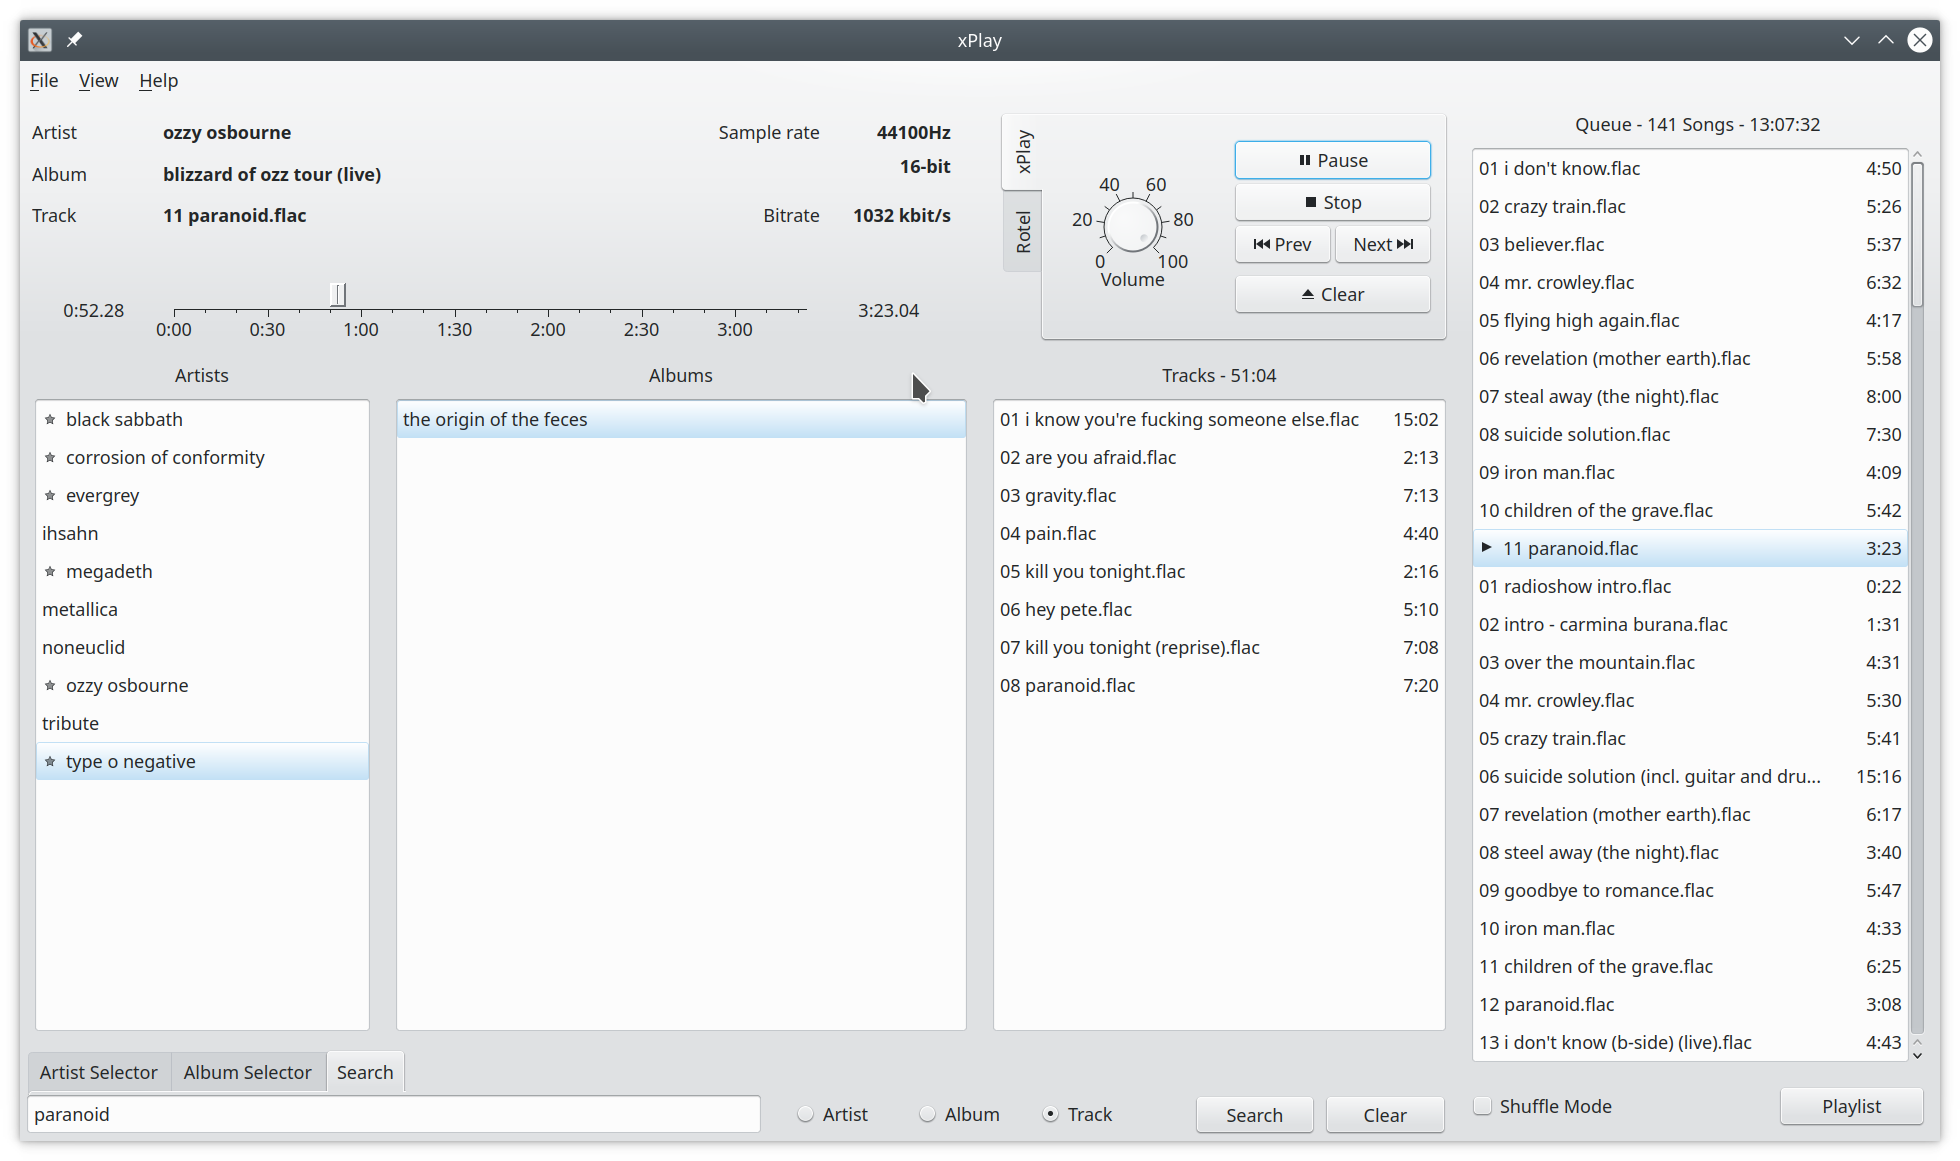
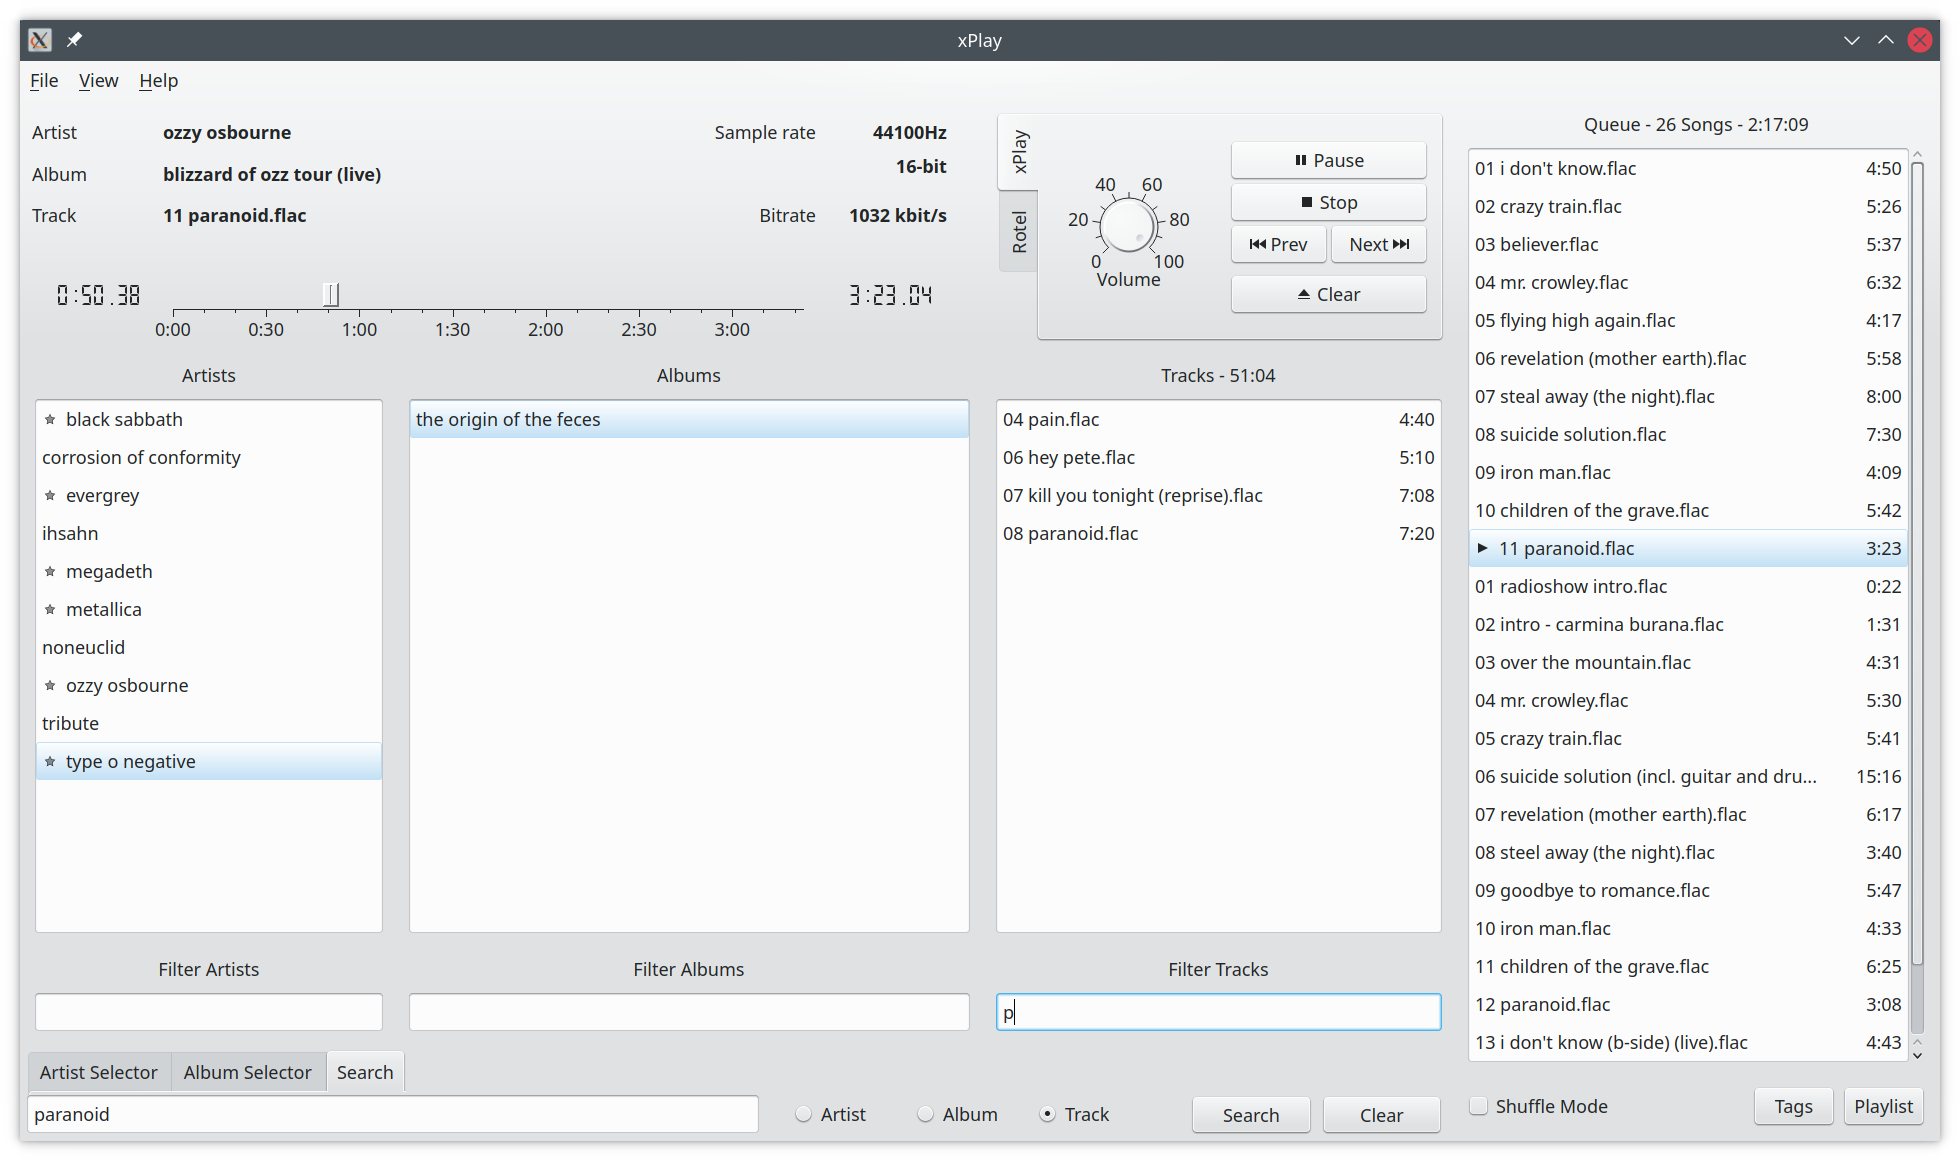
Update CHANGELOG.md and README.md. Update screenshots and version number.

diff --git a/xPlay.cpp b/xPlay.cpp
@@ -155,7 +155,7 @@ int main(int argc, char* argv[])
 {
     QApplication playApp(argc, argv);
     QApplication::setApplicationName("xPlay");
-    QApplication::setApplicationVersion("0.9.1");
+    QApplication::setApplicationVersion("0.9.2");
     QCommandLineParser playAppParser;
     if (handleCommandLine(playApp, playAppParser)) {
         // Exit if the command line was handled.

diff --git a/README.md b/README.md
@@ -91,13 +91,16 @@ xPlay has a music view, a movie view and a streaming view.
 ![Screenshot Music View (database)](screenshots/xplay_screenshot_music_view_02.png)
 ![Screenshot Music View (search)](screenshots/xplay_screenshot_music_view_03.png)
 ![Screenshot Music View (playlists)](screenshots/xplay_screenshot_music_view_04.png)
-![Screenshot Music View (artistinfo)](screenshots/xplay_screenshot_music_view_05.png)
+![Screenshot Music View (tags)](screenshots/xplay_screenshot_music_view_05.png)
+![Screenshot Music View (tag popup)](screenshots/xplay_screenshot_music_view_06.png)
+![Screenshot Music View (artistinfo popup)](screenshots/xplay_screenshot_music_view_07.png)
+![Screenshot Music View (artistinfo)](screenshots/xplay_screenshot_music_view_08.png)
 
 The main screen of the music view has four vertical list for the artists, album, tracks and the queue. The
 album list is updated if you click (or select) on an artist and the track list is updated if you click (or select)
 on an album. If you double-click on a track in the track list, then the track and the following tracks of the list
 are added to the queue. If you right-click on a track in the track list, then only this track will be added to the
-queue. Then entire album can be queued by a double-click on the corresponding album entry. A double-click on an
+queue. Then entire album can be queued by a double click on the corresponding album entry. A double click on an
 artist entry will queue all albums for the clicked artist.
 
 The queue does support a shuffle mode in which the queued tracks will be played at random. The jump to an individual
@@ -113,7 +116,7 @@ track has been played and the last time it was played. The overlay makes it easi
 listen too in some time or at all.
 
 The player itself displays the artist, album and track currently played. It includes a slider to seek within the
-currently played file. In addition there is player control section with a *play/pause*, *stop*, *prev*, *next*
+currently played file. In addition, there is player control section with a *play/pause*, *stop*, *prev*, *next*
 and *clear queue* buttons and a volume dialer. If you double-click on an entry of the queue then the player jumps
 to this track. Right-clicking on a queue entry will remove this track from the queue.
 
@@ -135,10 +138,12 @@ The Rotel widget allows to control a Rotel A12 or A14 amp via a network connecti
 (maximum of 60) and the input can be selected. The values for bass and treble can be adjusted (from -10 to +10)
 as well as the balance (from -5 to +5).
 
-#### Selectors
+#### Selectors and Filters
 
 The selectors are located at the bottom of the music view and include an artist selector, an album selector and
-an a search bar.
+an a search bar. A filter is available that can be applied to the artist, album or track list. 
+The selectors as well as the filters can be made accessible through the *View* menu and the *Music View* sub menu.
+
 
 ##### Artist Selector
 
@@ -177,6 +182,11 @@ artists and albums are displayed that contain a track matching the search text. 
 displayed, not only the tracks matching. The search based filtering will be added on top of the album selector based
 filtering. It is therefore possible to search for a specific track that has not yet been played and that contains the
 *(live)* tag.
+
+##### Filters
+
+The filter is applied on the list widget itself and therefore can be combined with the selectors. A list widget item
+is shown if it matches the given filter string.
 
 
 ### Movie View

diff --git a/CHANGELOG.md b/CHANGELOG.md
@@ -1,8 +1,13 @@
 # Changelog
 
-## Unreleased
+## 0.9.2 - 2021-08-04
 
-- Replace close pushbutton with close icon toolbutton.
+- Replace close pushbutton with close icon tool button.
+- Add filter for list widgets.
+- Add select option for local filter and selector widget.
+- Update QWT slider widget with LCD numbers.
+- Fixed bug in control of Rotel amp.
+- Improve adding tracks to the queue. Show progress bar and possibly warning dialog.
 
 
 ## 0.9.1 - 2021-06-13
